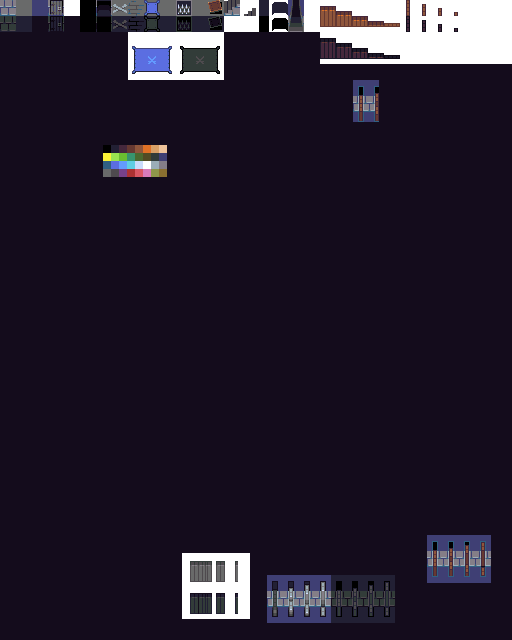
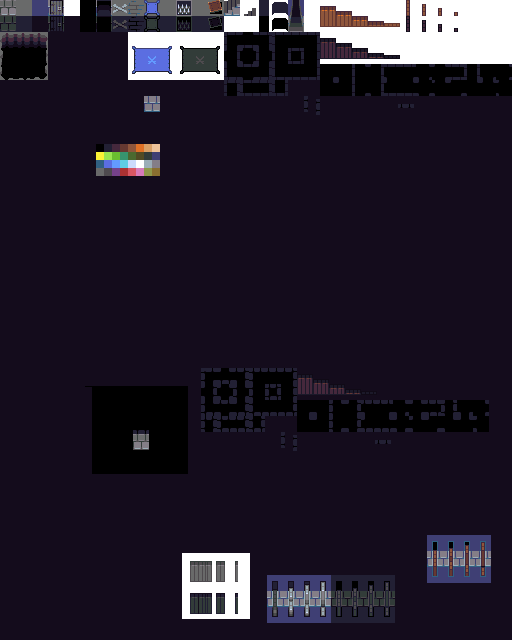
edge tiles

diff --git a/dist/bundle.js b/dist/bundle.js
@@ -1756,6 +1756,14 @@ var Level = (function () {
                 var tilegid = baseLayer[y * levelData.width + x];
                 var tileSourceSet = this.tilegidToTileset(levelData, tilegid);
                 if (tileSourceSet !== null) {
+                    var gid = tilegid - tileSourceSet.firstgid;
+                    if ((gid >= 78 && gid <= 83) ||
+                        (gid >= 110 && gid <= 115) ||
+                        (gid >= 142 && gid <= 159) ||
+                        (gid >= 174 && gid <= 177) ||
+                        (gid >= 180 && gid <= 191)) {
+                        this.levelArray[x][y + 1] = new wall_1.Wall(this, x, y + 1, gid);
+                    }
                     switch (tilegid - tileSourceSet.firstgid) {
                         case 1:
                             this.levelArray[x][y] = new floor_1.Floor(this, x, y);
@@ -1872,7 +1880,7 @@ var Wall = (function (_super) {
         var _this = _super.call(this, level, x, y) || this;
         _this.draw = function () {
             if (_this.y === _this.level.height - 1 || _this.level.visibilityArray[_this.x][_this.y + 1] > 0) {
-                if (_this.type === 0)
+                if (_this.type !== 1)
                     game_1.Game.drawTile(0, _this.level.env, 1, 1, _this.x, _this.y, 1, 1);
             }
             else {
@@ -1887,6 +1895,11 @@ var Wall = (function (_super) {
                 }
                 else if (_this.type === 1) {
                     game_1.Game.drawTile(5, _this.level.env, 1, 1, _this.x, _this.y - 1, 1, 1);
+                }
+                else {
+                    var tX = _this.type % (game_1.Game.tileset.width / gameConstants_1.GameConstants.TILESIZE);
+                    var tY = Math.floor(_this.type / (game_1.Game.tileset.width / gameConstants_1.GameConstants.TILESIZE));
+                    game_1.Game.drawTile(tX, tY, 1, 1, _this.x, _this.y - 1, 1, 1);
                 }
             }
             else {

diff --git a/src/tile/wall.ts b/src/tile/wall.ts
@@ -15,7 +15,7 @@ export class Wall extends CollidableLayeredTile {
 
   draw = () => {
     if (this.y === this.level.height - 1 || this.level.visibilityArray[this.x][this.y + 1] > 0) {
-      if (this.type === 0) Game.drawTile(0, this.level.env, 1, 1, this.x, this.y, 1, 1);
+      if (this.type !== 1) Game.drawTile(0, this.level.env, 1, 1, this.x, this.y, 1, 1);
     } else {
       Game.ctx.fillStyle = "black";
       Game.ctx.fillRect(
@@ -33,6 +33,10 @@ export class Wall extends CollidableLayeredTile {
         Game.drawTile(2, this.level.env, 1, 1, this.x, this.y - 1, 1, 1);
       } else if (this.type === 1) {
         Game.drawTile(5, this.level.env, 1, 1, this.x, this.y - 1, 1, 1);
+      } else {
+        let tX = this.type % (Game.tileset.width / GameConstants.TILESIZE);
+        let tY = Math.floor(this.type / (Game.tileset.width / GameConstants.TILESIZE));
+        Game.drawTile(tX, tY, 1, 1, this.x, this.y - 1, 1, 1);
       }
     } else {
       Game.ctx.fillStyle = "black";

diff --git a/src/level.ts b/src/level.ts
@@ -118,6 +118,16 @@ export class Level {
         let tileSourceSet = this.tilegidToTileset(levelData, tilegid);
 
         if (tileSourceSet !== null) {
+          let gid = tilegid - tileSourceSet.firstgid;
+          if (
+            (gid >= 78 && gid <= 83) ||
+            (gid >= 110 && gid <= 115) ||
+            (gid >= 142 && gid <= 159) ||
+            (gid >= 174 && gid <= 177) ||
+            (gid >= 180 && gid <= 191)
+          ) {
+            this.levelArray[x][y + 1] = new Wall(this, x, y + 1, gid);
+          }
           switch (tilegid - tileSourceSet.firstgid) {
             case 1:
               this.levelArray[x][y] = new Floor(this, x, y);
